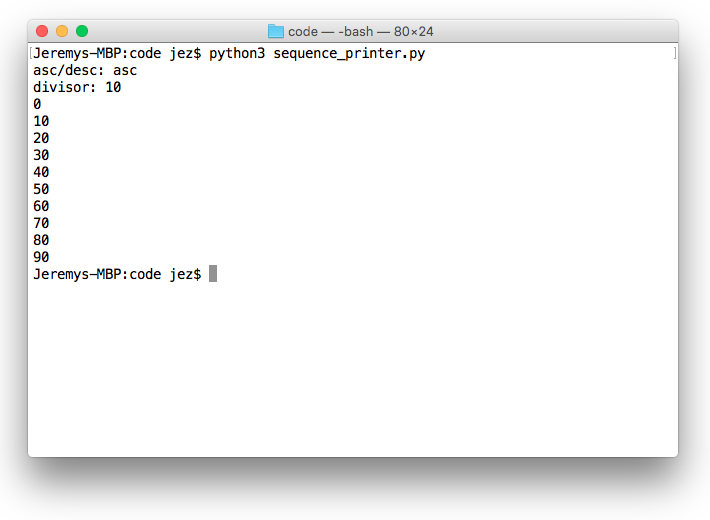
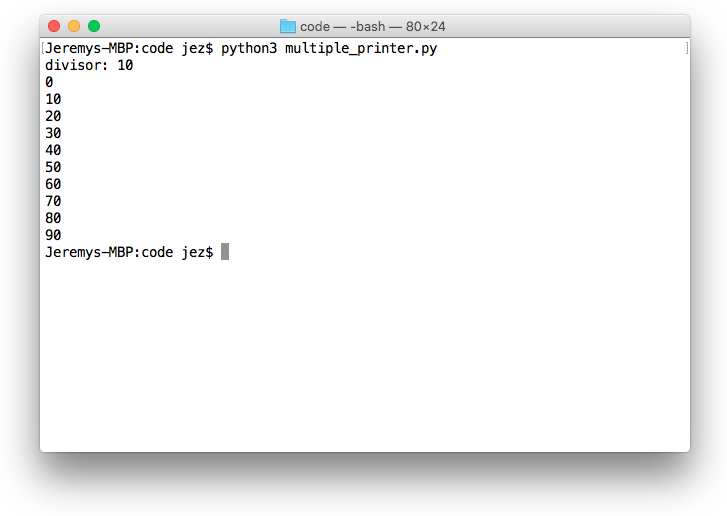
Simplified week03 challenge

Changed region(s): [[0.031, 0.031, 0.9606, 0.8992]]

diff --git a/week03/week03.md b/week03/week03.md
@@ -117,12 +117,10 @@ for s in ['this','is','a','list']:
 ```
 ---
 
-## Challenge: `sequence_printer.py`
+## Challenge: `multiple_printer.py`
 Write a program that behaves as follows:
-* The program prompts the user to type "asc" (ascending) or "desc" (descending).
 * The program prompts the user to type a divisor.
 * The program prints the numbers between 0 and 100 that are perfectly divisible by the divisor.
-* If the user initially typed "asc", the numbers are printed in ascending order. Otherwise, the numbers are printed in descending order.
 
 ---
 ### Example input / output
@@ -131,3 +129,4 @@ Write a program that behaves as follows:
 
 ## That's all, folks!
 * You've finished the third workshop!
+---
